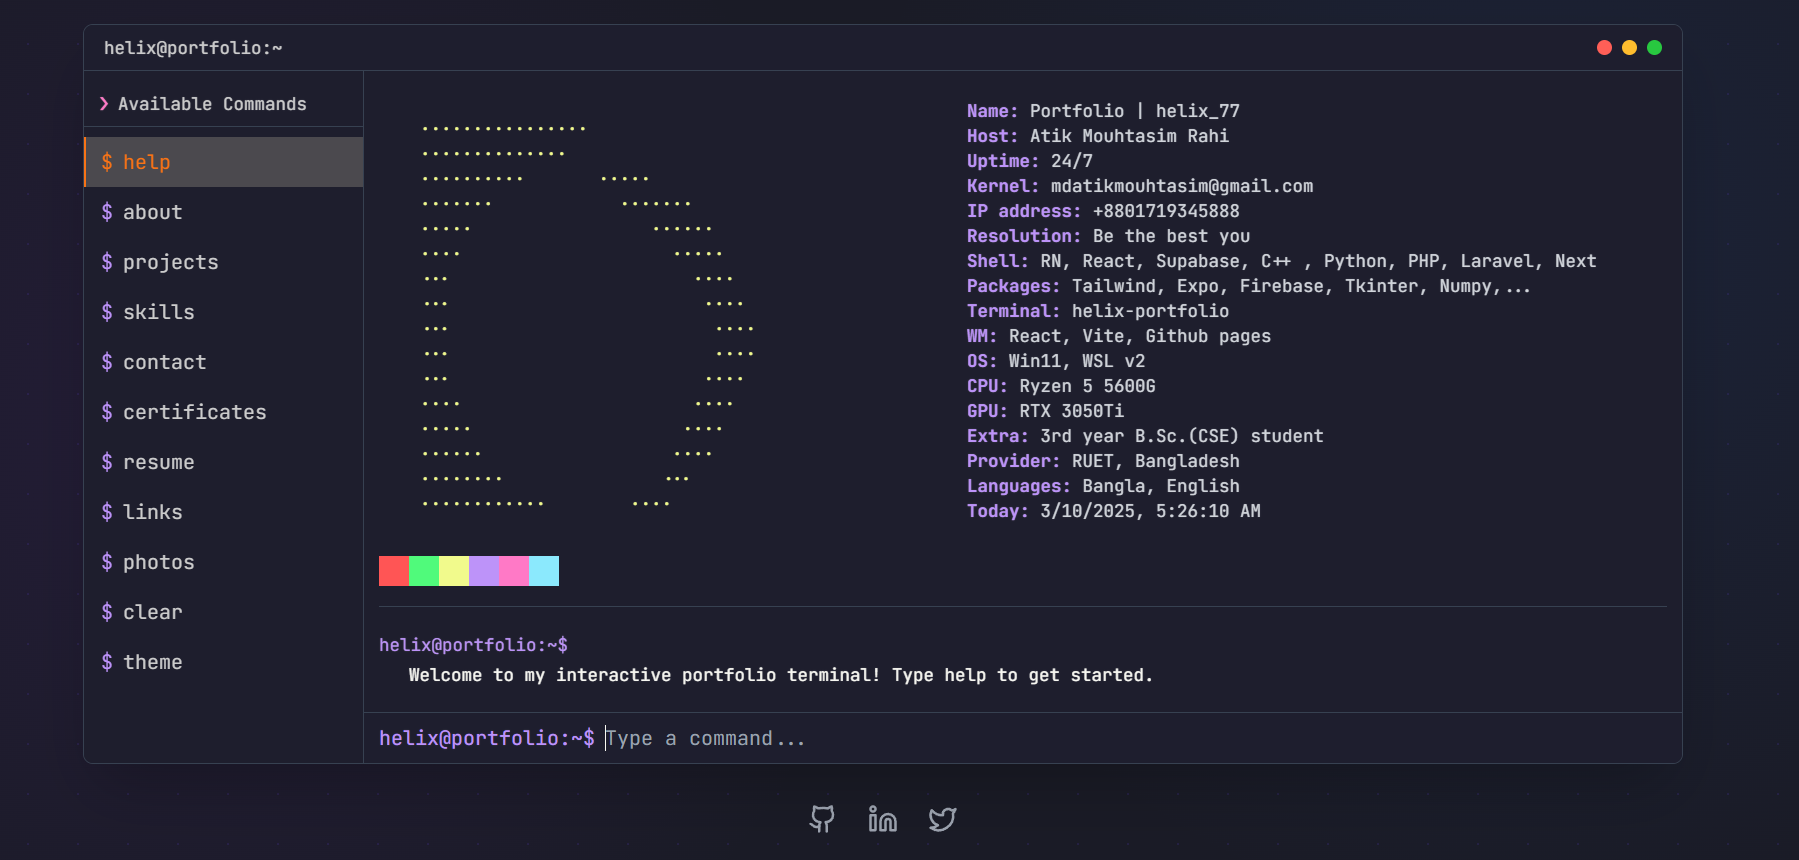
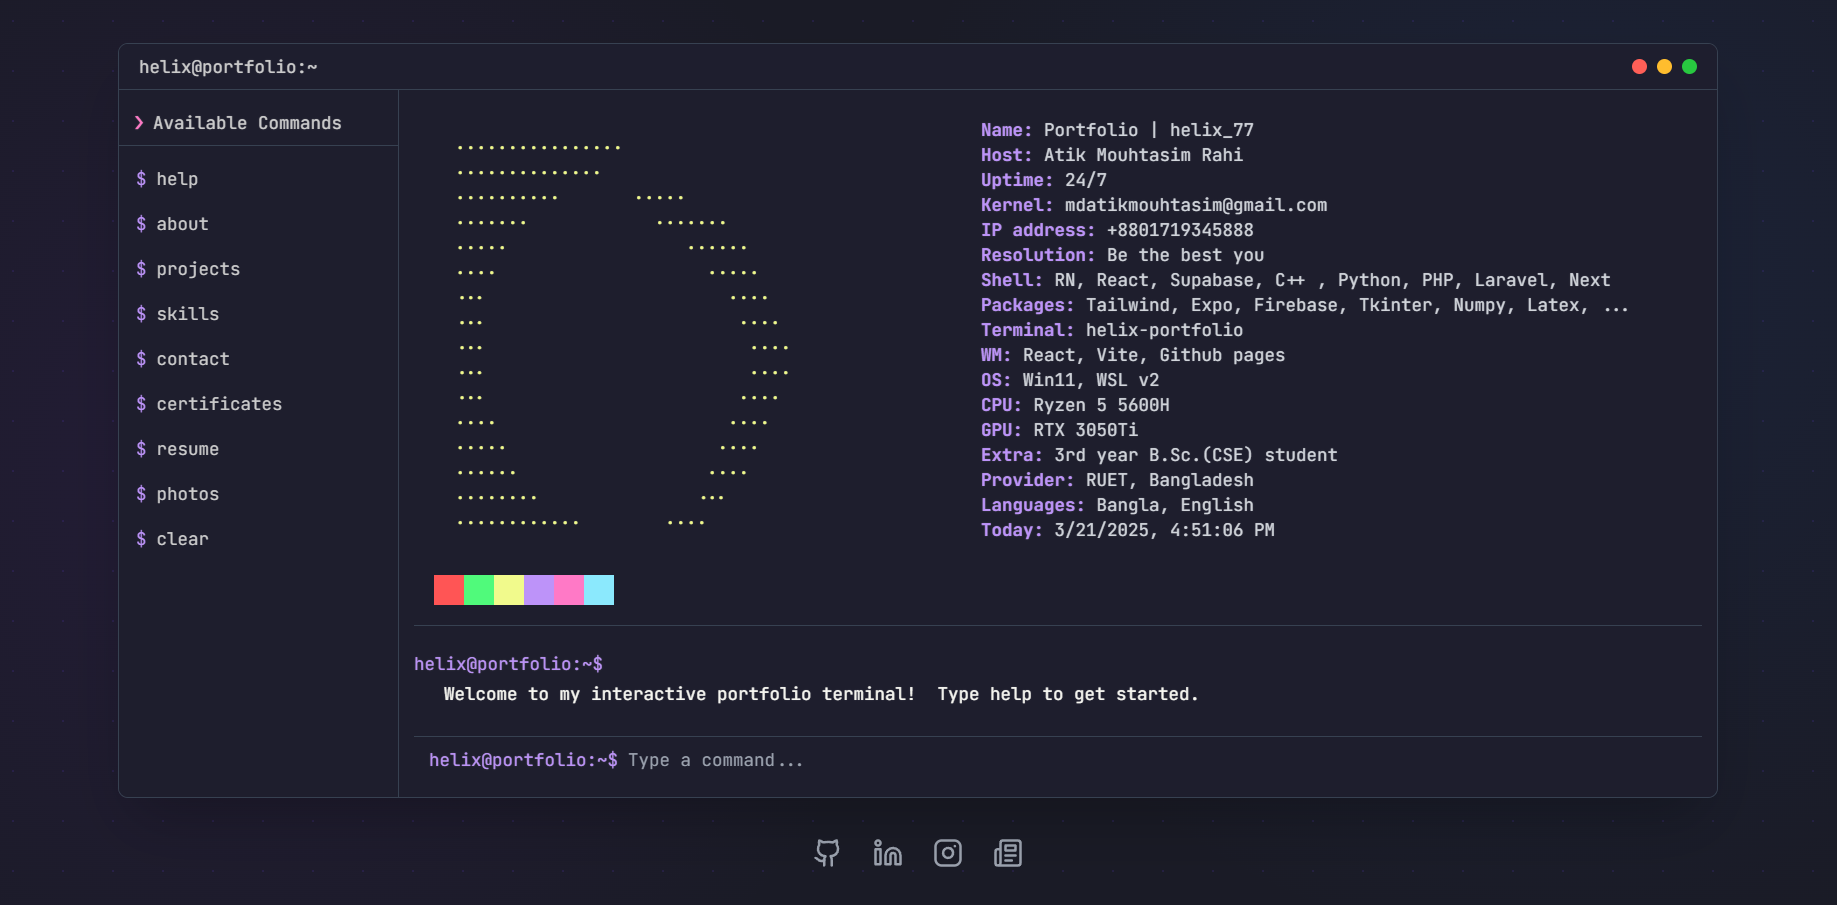
readme updated

diff --git a/src/components/terminal-components/NeofetchDisplay.tsx b/src/components/terminal-components/NeofetchDisplay.tsx
@@ -35,11 +35,11 @@ const NeofetchDisplay: React.FC = () => {
           <div><span className="text-[#BD93F9] font-bold">IP address:</span> +8801719345888 </div>
           <div><span className="text-[#BD93F9] font-bold">Resolution:</span> Be the best you</div>
           <div><span className="text-[#BD93F9] font-bold">Shell:</span> RN, React, Supabase, C++ , Python, PHP, Laravel, Next </div>
-          <div><span className="text-[#BD93F9] font-bold">Packages:</span> Tailwind, Expo, Firebase, Tkinter, Numpy,... </div>
+          <div><span className="text-[#BD93F9] font-bold">Packages:</span> Tailwind, Expo, Firebase, Tkinter, Numpy, Latex, ... </div>
           <div><span className="text-[#BD93F9] font-bold">Terminal:</span> helix-portfolio</div>
           <div><span className="text-[#BD93F9] font-bold">WM:</span> React, Vite, Github pages</div>
           <div><span className="text-[#BD93F9] font-bold">OS:</span> Win11, WSL v2</div>
-          <div><span className="text-[#BD93F9] font-bold">CPU:</span> Ryzen 5 5600G</div>
+          <div><span className="text-[#BD93F9] font-bold">CPU:</span> Ryzen 5 5600H</div>
           <div><span className="text-[#BD93F9] font-bold">GPU:</span> RTX 3050Ti</div>
           <div><span className="text-[#BD93F9] font-bold">Extra:</span> 3rd year B.Sc.(CSE) student</div>
           <div><span className="text-[#BD93F9] font-bold">Provider:</span> RUET, Bangladesh</div>

diff --git a/index.html b/index.html
@@ -11,7 +11,6 @@
   <body>
     <div id="root"></div>
     <!-- IMPORTANT: DO NOT REMOVE THIS SCRIPT TAG OR THIS VERY COMMENT! -->
-    <script src="https://cdn.gpteng.co/gptengineer.js" type="module"></script>
     <script type="module" src="/src/main.tsx"></script>
   </body>
 </html>

diff --git a/README.md b/README.md
@@ -1,9 +1,9 @@
-# Helix Terminal Portfolio (work-in-progress)
+# Helix Portfolio Terminal
 
 ![Terminal Preview](public/preview.png)
 
 
-A sleek, interactive terminal-style website built with React and TypeScript, designed to showcases personal details, skills, and tools through an elegant, modern UI with a focus on usability and aesthetics.
+A sleek, interactive terminal-style website built with React and TypeScript, designed to showcase personal details, skills, and tools through an elegant, modern UI with a focus on usability and aesthetics.
 
 ## 🚀 Features
 
@@ -19,7 +19,6 @@ A sleek, interactive terminal-style website built with React and TypeScript, des
 - React
 - TypeScript
 - Tailwind CSS
-- Ai(lovable.dev, claude, grok)
 
 ## 📋 Available Commands
 
@@ -83,6 +82,7 @@ A sleek, interactive terminal-style website built with React and TypeScript, des
 - [TypeScript](https://www.typescriptlang.org/)
 - [Tailwind CSS](https://tailwindcss.com/)
 - [Lovable.dev](https://lovable.dev)
+> *Though the project was initially scaffolded using lovable.dev, but the majority of the design, structure, and features have been extensively customized & refined by me and [Claude AI](https://claude.ai).*
 
 ## 🤝 Contributing
 
